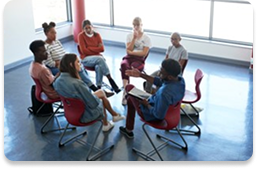
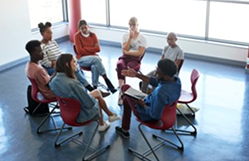
ajustes img cards

diff --git a/partials/cards-doador.html b/partials/cards-doador.html
@@ -1,4 +1,4 @@
-<section id="cards-doador" class="container mt-5 px-md-5 container-section">
+<section id="cards-doador" class="mt-5 px-md-5">
   <h2 class="text-center font-titulo fs-2 fw-bold my-4">
     Doe Seu Tempo, Talento ou Recursos
   </h2>
@@ -13,10 +13,10 @@
           data-bs-target="#modal-doador-1"
         >
           <img
-            class="card-img-top mx-auto mt-3 d-block"
+            class="card-img-top mx-auto p-3 d-block"
             src="../assets/imagens/card-voluntario-1.png"
-            alt="Serviço 1"
-            style="width: 15rem"
+            alt="Voluntario 1"
+            style="border-radius: 1.25rem"
           />
           <div class="card-body">
             <h5 class="card-title font-titulo text-center fs-5">
@@ -37,10 +37,10 @@
           data-bs-target="#modal-doador-2"
         >
           <img
-            class="card-img-top mx-auto mt-3 d-block"
+            class="card-img-top mx-auto p-3 d-block"
             src="../assets/imagens/card-voluntario-2.png"
-            alt="Serviço 2"
-            style="width: 15rem"
+            alt="Voluntario 2"
+            style="border-radius: 1.25rem"
           />
           <div class="card-body">
             <h5 class="card-title font-titulo text-center fs-5">
@@ -61,10 +61,10 @@
           data-bs-target="#modal-doador-3"
         >
           <img
-            class="card-img-top mx-auto mt-3 d-block"
+            class="card-img-top mx-auto p-3 d-block"
             src="../assets/imagens/card-voluntario-3.png"
-            alt="Serviço 3"
-            style="width: 15rem"
+            alt="Voluntario 3"
+            style="border-radius: 1.25rem"
           />
           <div class="card-body">
             <h5 class="card-title font-titulo text-center fs-5">

diff --git a/partials/cards-servicos.html b/partials/cards-servicos.html
@@ -17,7 +17,7 @@
           data-bs-target="#modal-servico-1"
         >
           <img
-            class="card-img-top mx-auto mt-3 d-block"
+            class="card-img mx-auto mt-3 d-block"
             src="../assets/imagens/img-servico-1.png"
             alt="Serviço 1"
             style="width: 16rem"
@@ -42,7 +42,7 @@
           data-bs-target="#modal-servico-2"
         >
           <img
-            class="card-img-top mx-auto mt-3 d-block"
+            class="card-img mx-auto mt-3 d-block"
             src="../assets/imagens/img-servico-2.png"
             alt="Serviço 2"
             style="width: 16rem"
@@ -68,7 +68,7 @@
           data-bs-target="#modal-servico-3"
         >
           <img
-            class="card-img-top mx-auto mt-3 d-block"
+            class="card-img mx-auto mt-3 d-block"
             src="../assets/imagens/img-servico-3.png"
             alt="Serviço 3"
             style="width: 16rem"

diff --git a/style.css b/style.css
@@ -131,9 +131,10 @@ body {
   margin-bottom: 2rem;
 }
 
-.card-img-top {
+.card-img {
   max-width: 100%;
   height: auto;
+  border-radius: 0.25rem;
 }
 
 .card-videos {
